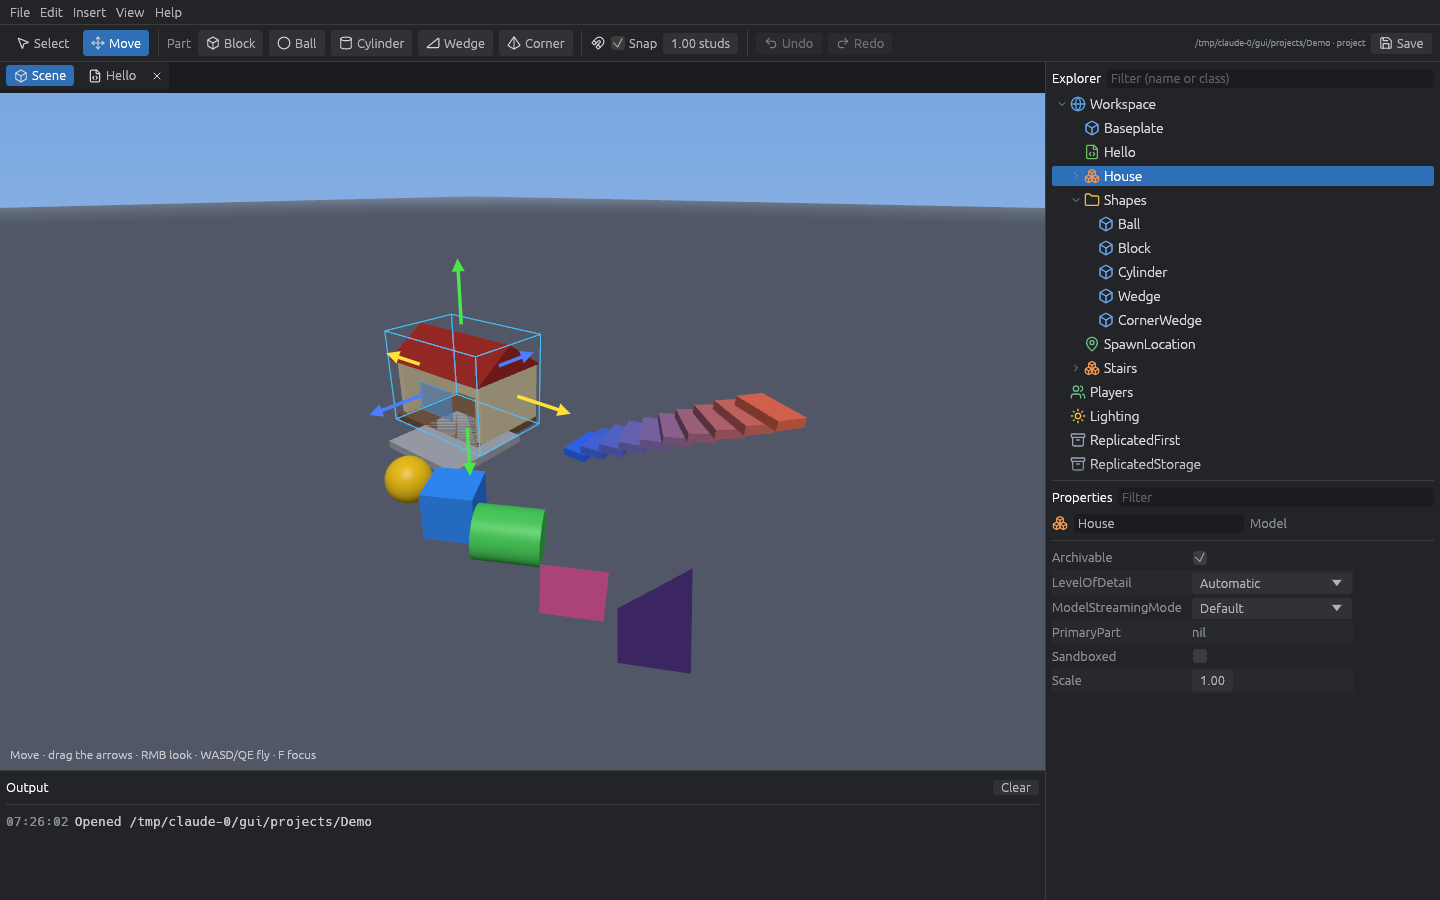
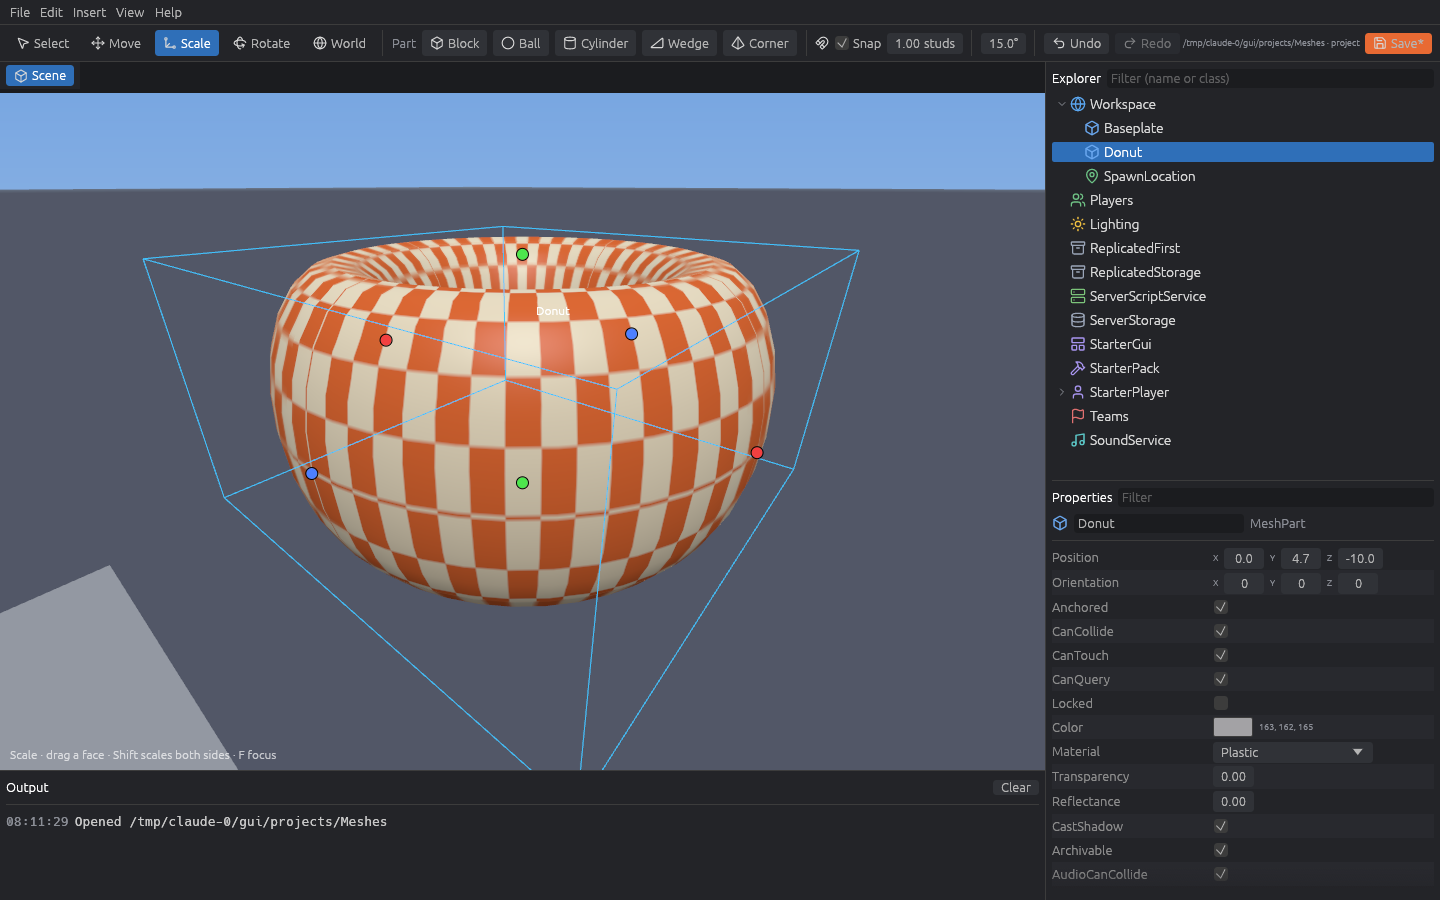
Wire meshes into the editor, tune rotate rings, update README
- Editor resolves kahua:// meshes and textures through an AssetStore
  and reports load problems in Output
- Insert > Mesh from File copies a .glb/.gltf/.obj into the project
- Rotate rings size from part sizes, so they no longer grow as the
  selection turns

diff --git a/crates/kahua-gui/src/editor.rs b/crates/kahua-gui/src/editor.rs
@@ -4,11 +4,11 @@ use std::collections::HashMap;
 use std::path::PathBuf;
 
 use eframe::egui::{self, Key, KeyboardShortcut, Modifiers, RichText, Ui};
-use kahua_core::kahua_io::rbx_dom_weak::types::Ref;
+use kahua_core::kahua_io::rbx_dom_weak::types::{CFrame, Content, Matrix3, Ref, Vector3};
 use kahua_core::{Document, Snapshot, Source};
-use kahua_render::Scene;
 use kahua_render::glam::Vec3;
 use kahua_render::scene::world_root;
+use kahua_render::{AssetStore, Scene};
 
 use crate::config::AppConfig;
 use crate::explorer::{Explorer, ExplorerAction};
@@ -43,6 +43,9 @@ pub struct Editor {
     clipboard: Vec<Snapshot>,
     scene: Scene,
     index: HashMap<Ref, usize>,
+    /// Meshes and textures stored in the project (`kahua://` URIs).
+    assets: AssetStore,
+    reported_warnings: std::collections::HashSet<String>,
     scene_revision: Option<u64>,
     show_output: bool,
     save_as: Option<SaveAsDialog>,
@@ -77,6 +80,7 @@ const CLOSE_TAB: KeyboardShortcut = shortcut(CMD, Key::W);
 
 impl Editor {
     pub fn new(doc: Document) -> Self {
+        let assets = AssetStore::new(asset_root(&doc));
         Self {
             doc,
             viewport: Viewport::default(),
@@ -88,6 +92,8 @@ impl Editor {
             clipboard: Vec::new(),
             scene: Scene::default(),
             index: HashMap::new(),
+            assets,
+            reported_warnings: Default::default(),
             scene_revision: None,
             show_output: true,
             save_as: None,
@@ -114,7 +120,7 @@ impl Editor {
         if self.scene_revision == Some(self.doc.revision()) {
             return false;
         }
-        self.scene = Scene::extract(&self.doc.dom);
+        self.scene = Scene::extract_with_assets(&self.doc.dom, &mut self.assets);
         self.index = self.scene.parts.iter().enumerate().map(|(i, p)| (p.owner, i)).collect();
         self.scene_revision = Some(self.doc.revision());
         true
@@ -157,6 +163,11 @@ impl Editor {
     ) -> Option<EditorAction> {
         let mut action = None;
         let scene_changed = self.refresh_scene();
+        for warning in &self.scene.warnings {
+            if self.reported_warnings.insert(warning.clone()) {
+                log.warn(warning.clone());
+            }
+        }
         self.shortcuts(ui, config, log);
         self.tabs.retain(|r| self.doc.dom.get_by_ref(*r).is_some());
         if self.active_tab.is_some_and(|r| !self.tabs.contains(&r)) {
@@ -457,6 +468,11 @@ impl Editor {
             }
         });
         ui.menu_button("Insert", |ui| {
+            if ui.add(icons::button(Icon::Cube, "Mesh from File…")).clicked() {
+                self.insert_mesh(log);
+                ui.close();
+            }
+            ui.separator();
             for (label, kind) in [
                 ("Block", PartKind::Block),
                 ("Sphere", PartKind::Sphere),
@@ -498,6 +514,41 @@ impl Editor {
             }
         });
         action
+    }
+
+    /// Copies a mesh file into the project and inserts a MeshPart in front of the camera.
+    fn insert_mesh(&mut self, log: &mut Log) {
+        let Some(file) = rfd::FileDialog::new().add_filter("3D model", &["glb", "gltf", "obj"]).pick_file() else {
+            return;
+        };
+        let root = asset_root(&self.doc);
+        match kahua_render::import_mesh(&root, &file) {
+            Ok(imported) => {
+                let name = file.file_stem().map(|s| s.to_string_lossy().into_owned()).unwrap_or_else(|| "Mesh".into());
+                let size = imported.size;
+                let camera = &self.viewport.camera;
+                let (origin, dir) = (camera.position, camera.forward());
+                let p = match self.scene.pick(origin, dir) {
+                    Some((_, t)) if t < 500.0 => origin + dir * t + Vec3::Y * size.y * 0.5,
+                    _ => origin + dir * 20.0,
+                };
+                let v = |v: Vec3| Vector3::new(v.x, v.y, v.z);
+                let snapshot = Snapshot::new("MeshPart", &name)
+                    .with_property("Anchored", true)
+                    .with_property("MeshContent", Content::from_uri(imported.uri.clone()))
+                    .with_property("InitialSize", v(size))
+                    .with_property("Size", v(size))
+                    .with_property("CFrame", CFrame::new(v(p), Matrix3::identity()));
+                let r = snapshot.referent;
+                let edit = self.doc.create(world_root(&self.doc.dom), snapshot);
+                self.doc.perform("Insert Mesh", vec![edit]);
+                self.doc.selection = vec![r];
+                self.explorer.reveal(r);
+                self.active_tab = None;
+                log.info(format!("Added {} as {}", file.display(), imported.uri));
+            }
+            Err(e) => log.error(format!("Could not import {}: {e:#}", file.display())),
+        }
     }
 
     fn insert_part(&mut self, kind: PartKind, config: &AppConfig) {
@@ -691,4 +742,11 @@ impl Editor {
             }
         }
     }
+}
+
+/// Where `kahua://` asset URIs are resolved: the project folder, or the folder
+/// of a place file opened directly.
+fn asset_root(doc: &Document) -> PathBuf {
+    let path = doc.path();
+    if path.is_dir() { path.to_path_buf() } else { path.parent().map(|p| p.to_path_buf()).unwrap_or_default() }
 }

diff --git a/crates/kahua-gui/src/viewport.rs b/crates/kahua-gui/src/viewport.rs
@@ -380,7 +380,19 @@ impl Viewport {
                 let axes = frame_axes(doc, self.local_axes);
                 let arrow = (self.camera.position.distance(center) * 0.12).max(1.0);
                 let extent = axes.map(|a| half.dot(a.abs()));
-                let length = if tool == Tool::Rotate { half.length().max(arrow) } else { arrow };
+                let length = if tool == Tool::Rotate {
+                    // Hug the selection: farthest part center plus that part's largest
+                    // half size. Unlike the world-aligned bounds, this does not grow
+                    // as the selection turns.
+                    let reach = ops::parts_to_transform(doc)
+                        .iter()
+                        .filter_map(|r| index.get(r).map(|&i| &scene.parts[i]))
+                        .map(|p| p.position().distance(center) + p.size.max_element() * 0.5)
+                        .fold(0.0f32, f32::max);
+                    (reach * 1.1).max(arrow * 0.5)
+                } else {
+                    arrow
+                };
                 Some(Gizmo { center, axes, extent, length, part: None })
             }
             Tool::Scale => {
@@ -699,7 +711,7 @@ fn frame_axes(doc: &Document, local: bool) -> [Vec3; 3] {
 /// Splits a scene into the parts `mine` accepts and the rest.
 fn split_scene(scene: &Scene, mut mine: impl FnMut(Ref) -> bool) -> (Scene, Scene) {
     let (a, b): (Vec<_>, Vec<_>) = scene.parts.iter().cloned().partition(|p| mine(p.owner));
-    (Scene { parts: a }, Scene { parts: b })
+    (Scene { parts: a, ..Default::default() }, Scene { parts: b, ..Default::default() })
 }
 
 fn translate(mut cf: CFrame, offset: Vec3) -> CFrame {

diff --git a/README.md b/README.md
@@ -23,8 +23,12 @@ It also runs headless: render screenshots of a place from the command line or in
   vectors, colors, enums, text, plus Position and Orientation like Studio. Multi-selection edits.
 - **3D viewport** for parts (block, ball, cylinder, wedge, corner wedge), colors and
   transparency, Studio-style camera (right mouse to look, WASD/QE to fly, wheel to zoom, F to focus),
-  click to select, and a move tool with grid snapping.
-- **Script editor** with Luau syntax highlighting and line numbers.
+  click or box select, and Move, Scale and Rotate tools with grid and angle snapping, world or
+  local axes, and dragging parts across surfaces.
+- **MeshParts from files in your project** (`.glb`, `.gltf`, `.obj`) with their textures, no
+  account needed: Insert → Mesh from File, or `kahua add-mesh`.
+- **Script editor** with Luau syntax highlighting, find and replace, go to line, auto-indent,
+  block indent/unindent, comment toggling and bracket matching.
 - **Undo/redo** for everything.
 - **CLI and headless rendering** that need no display or GPU.
 
@@ -62,6 +66,7 @@ kahua build my-game -o my-game.rbxl     # project -> place file (also .rbxlx/.rb
 kahua info place.rbxl --depth 3         # print the instance tree
 kahua render my-game -o shot.png        # screenshot without a window
 kahua render place.rbxl --focus Workspace.Car --width 1920 --height 1080
+kahua add-mesh my-game sword.glb --position 0,5,0   # copy a mesh into the project
 ```
 
 ### Editor shortcuts
@@ -70,7 +75,9 @@ kahua render place.rbxl --focus Workspace.Car --width 1920 --height 1080
 | --- | --- |
 | Look around / fly | Right mouse drag, WASD, Q/E (Shift = slower) |
 | Zoom / focus selection | Mouse wheel / F |
-| Select tool / Move tool | Ctrl+1 / Ctrl+2 |
+| Select / Move / Scale / Rotate | Ctrl+1 / Ctrl+2 / Ctrl+3 / Ctrl+4 |
+| World or local axes | Ctrl+L |
+| Select all | Ctrl+A |
 | Select a part inside a model | Alt+click |
 | Undo / Redo | Ctrl+Z / Ctrl+Y |
 | Duplicate / Delete / Rename | Ctrl+D / Del / F2 |
@@ -78,6 +85,8 @@ kahua render place.rbxl --focus Workspace.Car --width 1920 --height 1080
 | Group / Ungroup | Ctrl+G / Ctrl+U |
 | Rotate / Tilt 90° | Ctrl+R / Ctrl+T |
 | Save | Ctrl+S |
+| Script: find / replace / go to line | Ctrl+F / Ctrl+H / Ctrl+G |
+| Script: indent / unindent / comment | Tab / Shift+Tab / Ctrl+/ |
 
 ## Project format
 
@@ -101,6 +110,8 @@ my-game/
 
 - Scripts are plain `.luau` files. Instances that contain scripts become folders.
 - Everything else is a readable `.model.json`, so map changes show up as small git diffs.
+- Meshes and textures live in `assets/` and are referenced as `kahua://assets/meshes/sword.glb`.
+  Publishing (planned) will upload them and record the Roblox asset IDs.
 - Instances that reference each other (welds, `PrimaryPart`) or hold binary data are stored as
   `.rbxm` so nothing is lost.
 - Existing Rojo projects keep their own layout: Kahua writes changes back where they came from
@@ -118,8 +129,8 @@ my-game/
 
 ## Roadmap
 
-- MeshParts, unions and textures (downloading assets needs an optional account login)
-- Rotate and scale tools, surface snapping
+- Decals and textures on part faces; downloading meshes of existing places (needs an optional login)
+- Properties grouped by category, Attributes and Tags, dockable panels
 - Luau autocompletion and type checking via luau-lsp
 - Optional login to publish places (internal Studio endpoints or Open Cloud)
 - Terrain, GUI editing, a minimal playtest mode
